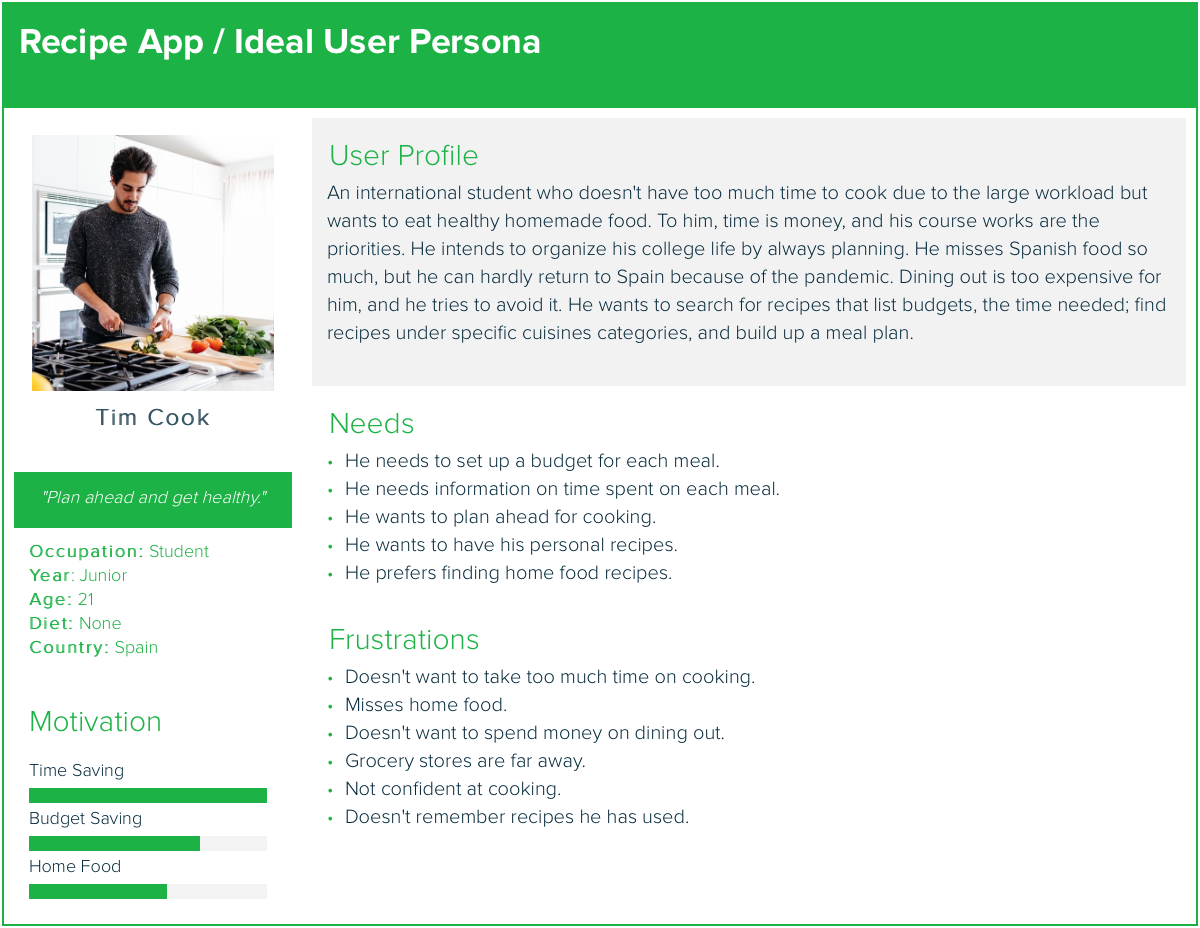
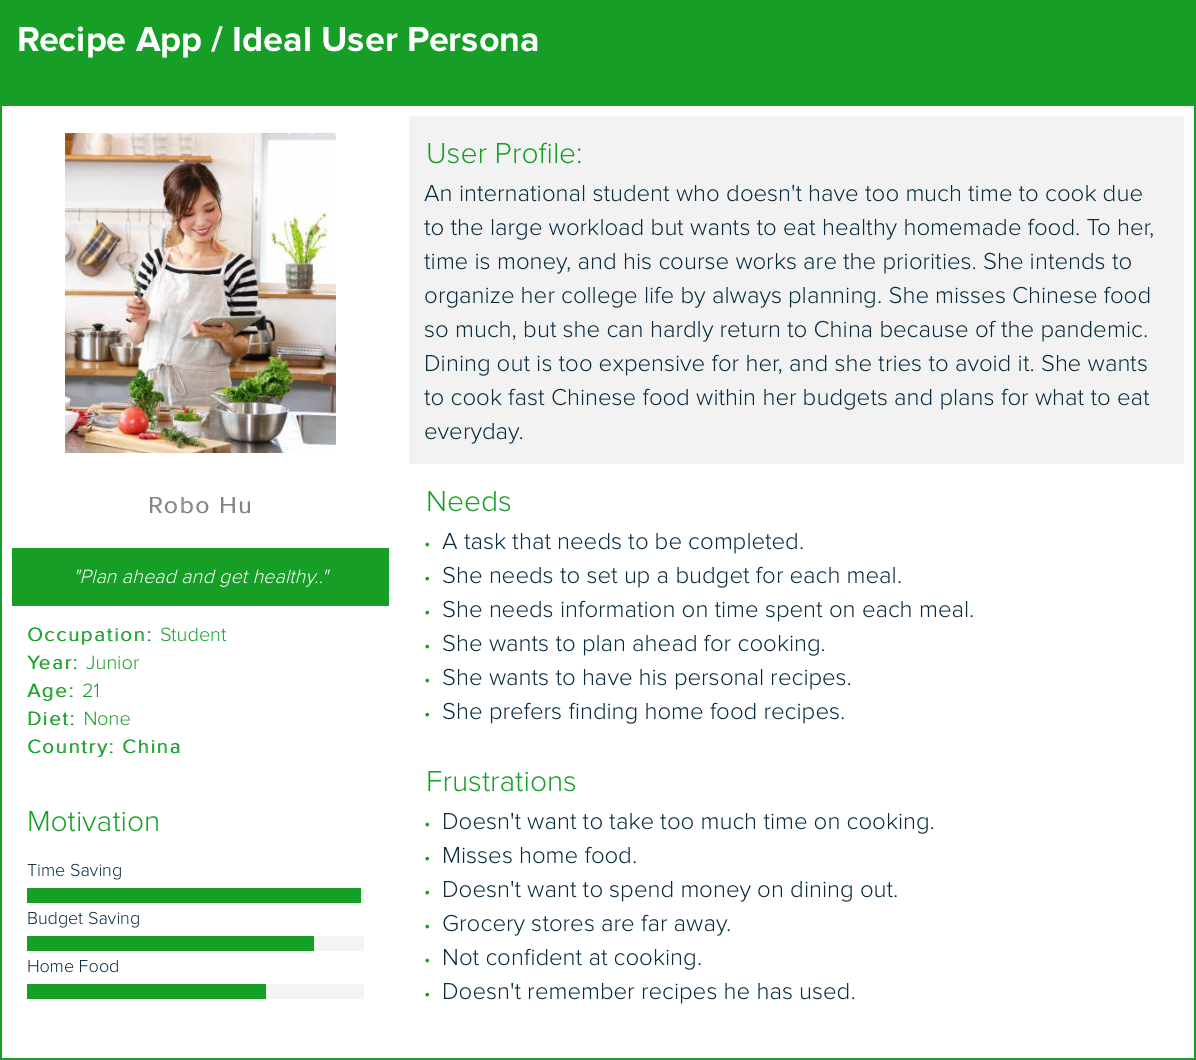
persona part revised

diff --git a/documents/discovery-and-planning.md b/documents/discovery-and-planning.md
@@ -211,6 +211,40 @@ You are very busy during the midterm week so you want to spend less than 30mins 
 Scenario 2
 You’ve studied abroad for 2 years and missed the food in your hometown, but ordering Asian food delivery is too expensive for you. Therefore, you want to cook some hometown dishes within a $20 budget for dinner. Try to navigate yourself to recipes of your hometown dishes in the app and choose one recipe within your budget to cook.
 
+# 6. Persona
+Name: Robo Hu
+Quote: "Plan ahead and get healthy."
+
+Occupation: Student
+Year: Junior
+Age: 21
+Diet: None
+Country: China
+
+Motivation:
+- Time Saving
+- Budget Saving
+- Home Food
+
+User Profile:
+An international student who doesn't have too much time to cook due to the large workload but wants to eat healthy homemade food. To her, time is money, and his course works are the priorities. She intends to organize her college life by always planning. She misses Chinese food so much, but she can hardly return to China because of the pandemic. Dining out is too expensive for her, and she tries to avoid it. She wants to cook fast Chinese food within her budgets and plans for what to eat everyday.
+
+Needs:
+- She needs to set up a budget for each meal.
+- She needs information on time spent on each meal. 
+- She wants to plan ahead for cooking.
+- She wants to have his personal recipes.
+- She prefers finding home food recipes.
+
+Frustrations:
+- Doesn't want to take too much time on cooking.
+- Misses home food.
+- Doesn't want to spend money on dining out.
+- Grocery stores are far away.
+- Not confident at cooking.
+- Doesn't remember recipes he has used.
+
+![Persona](images/user_persona/persona.png)
 
 # 7. Project Themes
 
